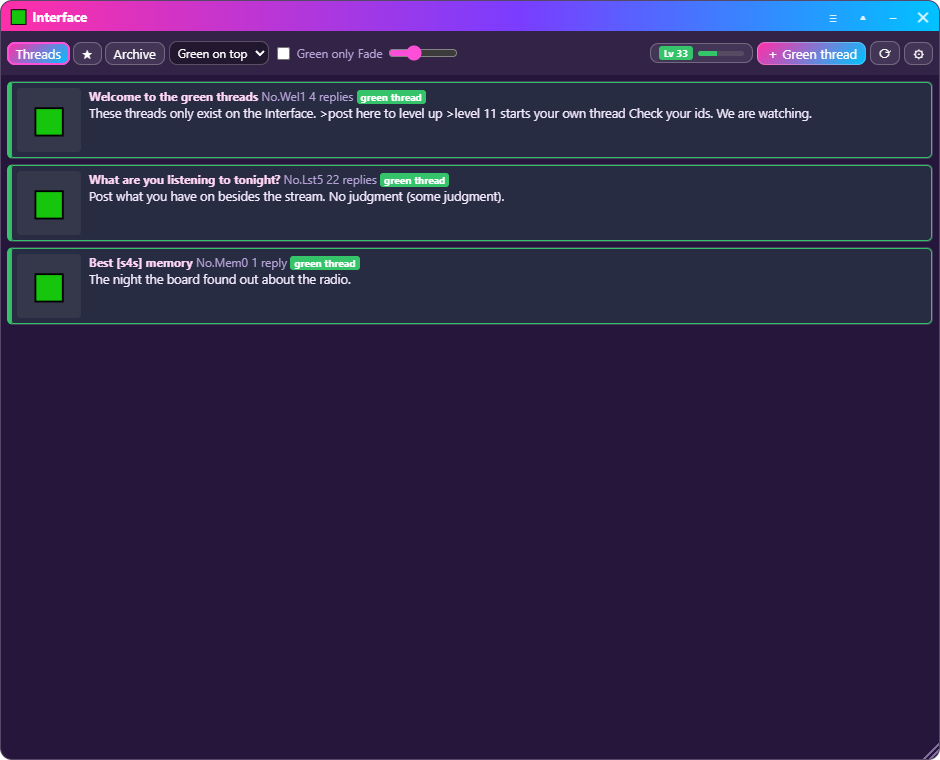
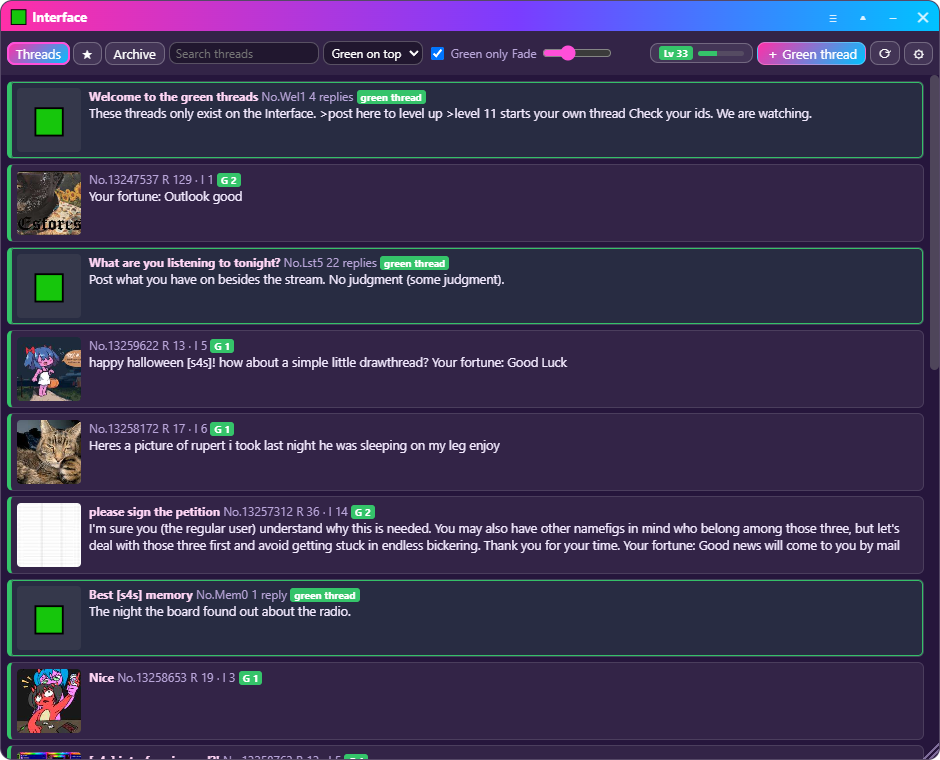
README: new screenshots (holiday looks too) and the current features

diff --git a/README.md b/README.md
@@ -31,16 +31,22 @@ in, request songs, play the albums — and do things a web page can't.
 <table><tr>
 <td><img src="docs/images/radio-win95.png" alt="Windows 95 look" width="360"></td>
 <td><img src="docs/images/radio-matrix.png" alt="Matrix look" width="360"></td>
+</tr><tr>
+<td><img src="docs/images/radio-s4sday.png" alt="[s4s]'s birthday look" width="360"></td>
+<td><img src="docs/images/radio-spooky.png" alt="Spooky look" width="360"></td>
 </tr></table>
 
+- **📻 The radio**: the song, its cover and how far into it; 👍/👎 on AutoDJ songs; long titles scroll by.
+- **⏭ Vote to skip**: when more than half of the people listening press ⏭, the AutoDJ song is skipped, and a bar under the volume shows everyone how close a vote is. (When the station allows it.)
 - **📣 A ping when the station goes live** — and whenever the host presses 📣 Ping, live or not. No account, no push service: the app watches the station itself.
 - **🗂 Every part in its own window.** Chat, Request, Playlist, Call in, Sign, Albums, Board, TV, Links, Settings. Move them, size them, roll them up to their title bar, tuck them into the radio, keep any of them on top. They remember where they were, and bringing the radio forward brings them all with it.
 - **🎨 25 looks**, per window if you like: the FunpostFM classic plus Windows 95, XP, Mac OS, DOS, Commodore 64, Matrix, Amber, Game Boy, GeoCities, Synthwave, Y2K, Teletext, Netscape, Glitch, Chinese, Japanese and Starry — and a see-through **HUD** that leaves only the words.
 - **🎃 Holiday looks**, like the board's one-day-a-year themes: **Spooky** on Halloween (with a dancing skeleton), party hats for **4chan's birthday** (Oct 1) and **[s4s]'s birthday** (Apr 1), snow for **Crimbus**, plus New Year, Valentine's and St Patrick's. The app dresses up by itself on the day; wear them any day you like.
 - **📞 Call the show** or leave a voicemail, right from the desktop.
 - **📀 Albums**: play them in the app or download them to a folder.
-- **📋 The board** as a real browser view — the captcha works, so you can post — with your own **userscripts** (Tampermonkey-style).
-- **🔄 Updates itself** from this repository's releases; you choose when to restart.
+- **📋 The board** as a real browser view — the captcha works, so you can post. **Right-click** a picture to save it under the name it was posted with, or search for it. If 4chan blocks your connection's range, the window walks you through verifying your e-mail right there.
+- **🧩 Userscripts** (Tampermonkey-style), with the station's picks one click away: the [s4s] interface, [Better] [s4s], [s4s] Enhancer, reply helper, Get Watcher, New [s4s] fortunes and [s4s] colored text.
+- **🔄 Updates itself** from this repository's releases, and opens again on the new version.
 
 <table><tr>
 <td><img src="docs/images/albums.png" alt="Albums window" width="300"></td>
@@ -73,10 +79,12 @@ with letters in their ids — that exist nowhere else.
 
 <img src="docs/images/interface-thread.png" alt="A green thread in the Interface" width="720">
 
-- **Everything without green fades into the background; green pops out.** Sort green to the top, or show green only.
+- **Everything without green fades into the background; green pops out.** Sort green to the top, show green only, or **search** the threads.
+- **🟩 Green only** inside a thread shows just its green posts. Leave a thread and you're back where you were in the list.
+- **Green posts with pictures**: pick one, paste it or drop it in. **↓ save** any picture, or right-click it to search for it.
 - **Green threads**: text only, quoted like `>>7xK2`, bumped by replies, archived after three days without one.
-- **Levels.** You earn XP by posting, by being quoted, by landing repeating ids — and by **checking** other people's: dubs, trips, quads and up, in green threads *and* on the board itself. Level **11** lets you start a thread of your own (one at a time). The milestones are the numbers [s4s] cares about: **11, 22, 33… 111, 1111**, palindromes like **3113**, patterns like **1313**.
-- **(You)**, a watcher for threads, quote previews, tripcodes, and moderation tools for the station.
+- **Levels.** You earn XP by posting, by being quoted, by landing repeating ids — and by **checking** other people's: dubs, trips, quads and up, in green threads *and* on the board itself. **Checking with a real reply on 4chan is worth double.** Level **11** lets you start a thread of your own (one at a time). The milestones are the numbers [s4s] cares about: **11, 22, 33… 111, 1111**, palindromes like **3113**, patterns like **1313**.
+- **(You)**, a watcher for threads, quote previews, tripcodes, the Options list, and moderation tools for the station.
 
 Green threads are hosted by the station; they're there whenever the station is on.
 
@@ -108,7 +116,7 @@ Code at this folder and ask it to build one around your own station; it asks
 for your details as it goes.
 
 **Releasing:** bump `version` in `app/package.json`, commit, and push a tag
-like `v0.4.2`. GitHub Actions builds Windows and Linux and publishes the
+like `v0.4.2`. Write what's new in `app/build/release-notes.md` first; it becomes the release notes. GitHub Actions builds Windows and Linux and publishes the
 release, and every installed app updates itself from it.
 
 ---

diff --git a/docs/desktop-app.md b/docs/desktop-app.md
@@ -91,6 +91,11 @@ chat room follows the look too.
 
 **Holiday looks** — the board's rare one-day themes, any day you want them:
 
+<table><tr>
+<td><img src="images/radio-s4sday.png" alt="[s4s]'s birthday" width="300"></td>
+<td><img src="images/radio-spooky.png" alt="Spooky" width="300"></td>
+</tr></table>
+
 | Look | Its day | In the app |
 |---|---|---|
 | 🎃 **Spooky** | Halloween, Oct 31 | 4chan's Halloween colours, a dancing skeleton in every title bar; bats on Advanced |
